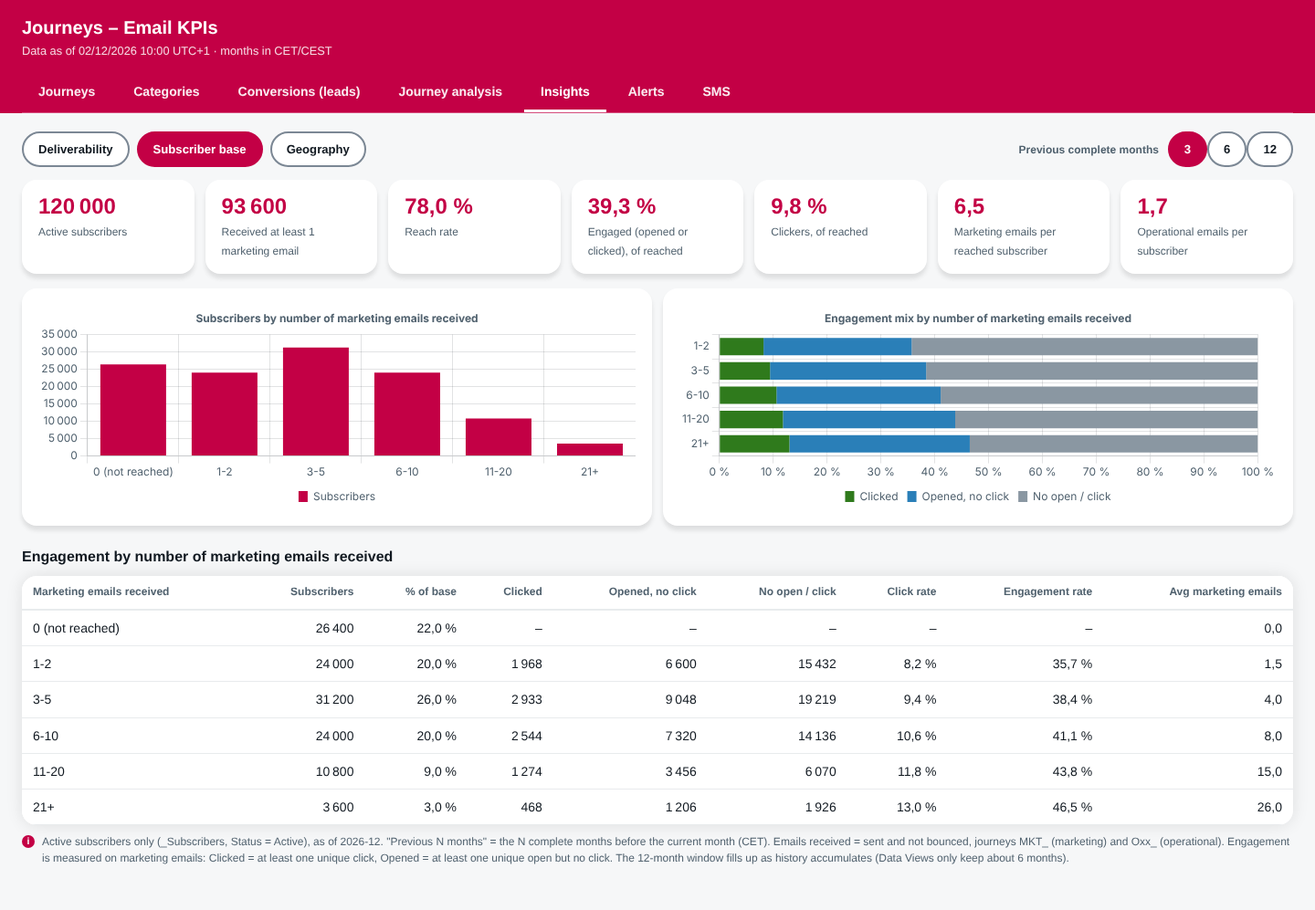
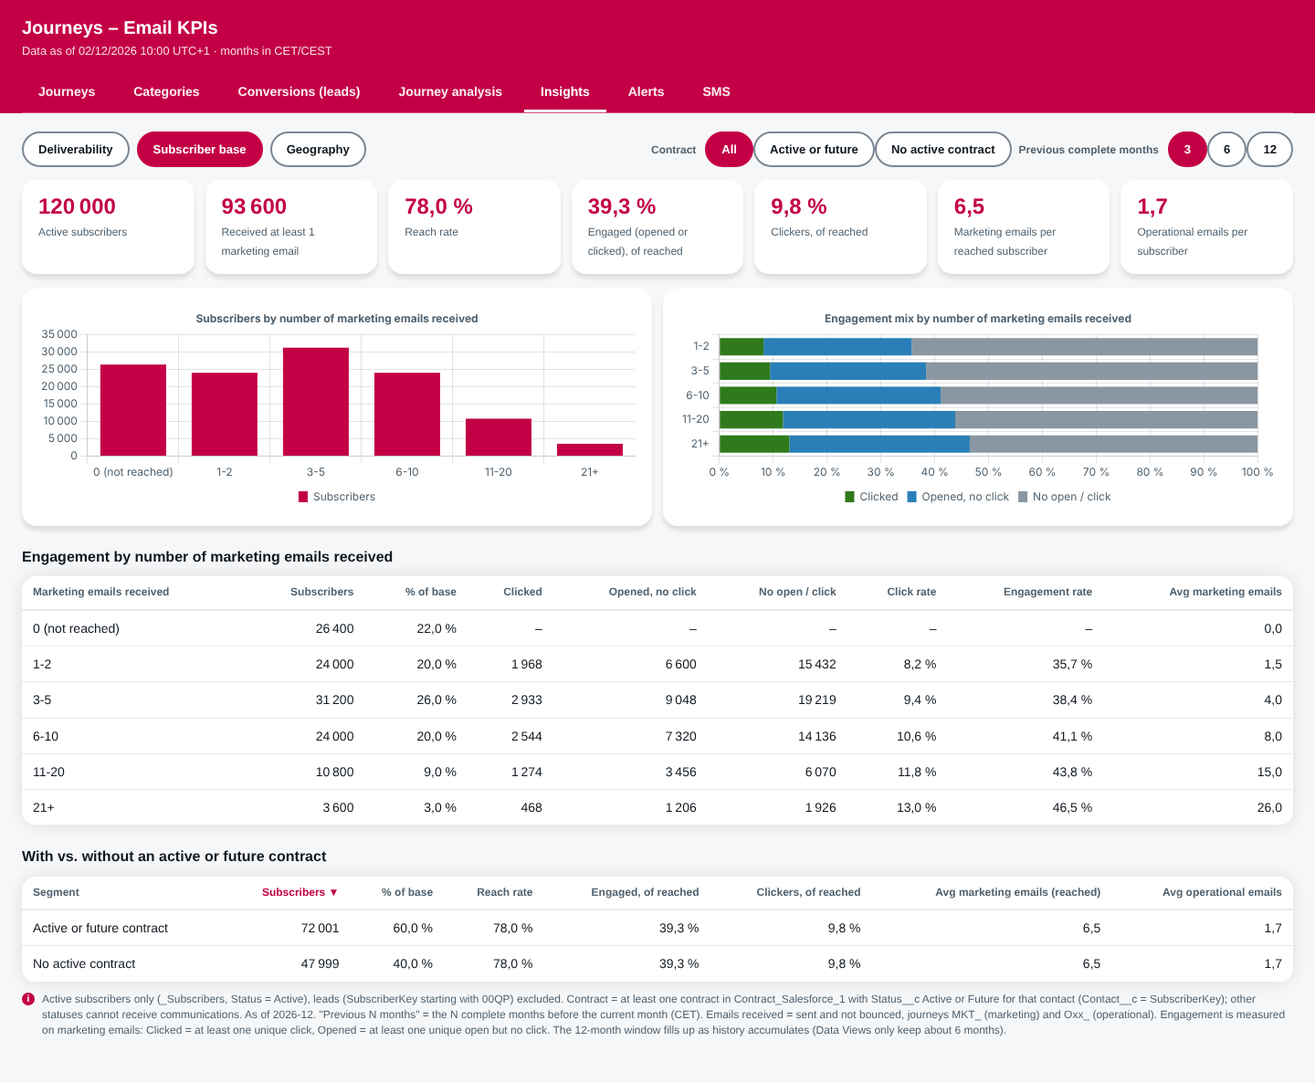
Subscriber base and geography: split by active/future contract, exclude leads (00QP)
Claude-Session: https://claude.ai/code/session_01WtzjzeTDomDiWbenzCQNQG

diff --git a/cloudpage_dashboard.html b/cloudpage_dashboard.html
@@ -310,6 +310,8 @@ a.jl:focus-visible{outline:2px solid var(--focus);outline-offset:2px;border-radi
       <button type="button" class="chip" data-sub="aud" aria-pressed="false">Subscriber base</button>
       <button type="button" class="chip" data-sub="geo" aria-pressed="false">Geography</button>
       <span class="grow"></span>
+      <span id="segBar" role="group" aria-label="Contract segment" hidden><span class="lbl">Contract</span>
+        <button type="button" class="chip" data-seg="all" aria-pressed="true">All</button><button type="button" class="chip" data-seg="yes" aria-pressed="false">Active or future</button><button type="button" class="chip" data-seg="no" aria-pressed="false">No active contract</button></span>
       <span id="winBar" role="group" aria-label="Look-back window" hidden><span class="lbl">Previous complete months</span>
         <button type="button" class="chip" data-win="3" aria-pressed="true">3</button><button type="button" class="chip" data-win="6" aria-pressed="false">6</button><button type="button" class="chip" data-win="12" aria-pressed="false">12</button></span>
     </div>
@@ -323,6 +325,8 @@ a.jl:focus-visible{outline:2px solid var(--focus);outline-offset:2px;border-radi
       <div class="charts"><div class="card"><canvas id="c4"></canvas></div><div class="card"><canvas id="c5"></canvas></div></div>
       <div class="h2">Engagement by number of marketing emails received</div>
       <div class="wrap"><table id="tAud"></table></div>
+      <div id="segBlock" hidden><div class="h2">With vs. without an active or future contract</div>
+      <div class="wrap"><table id="tSeg"></table></div></div>
       <div class="note" id="audNote"></div>
     </div>
     <div id="ins-geo" hidden>
@@ -366,7 +370,7 @@ const ALERT_MIN_DAYS = CFG.alertMinDays ?? 3;    /* do not alert before this man
 const DARK = () => window.matchMedia && matchMedia('(prefers-color-scheme: dark)').matches;
 const PAL_L = ['#c30045','#101820','#2a7fb8','#4b9b30','#ad0cdf'], PAL_D = ['#ff7da3','#eef0f2','#6cb8ee','#7fd36a','#d28bff'];
 const DASHES = [[],[7,4],[2,3],[10,3,2,3]], PTS = ['circle','rect','triangle','rectRot'];   /* series differ by shape and line style, not only by colour */
-const S = {tab:'journeys', fam:'ALL', type:'', prod:'', from:'', to:'', gran:'total', grp:'journey', view:'cat', q:'', j:'', alert:'ongoing', compact:false, sub:'deliv', win:'3', gl:'prov'};
+const S = {tab:'journeys', fam:'ALL', type:'', prod:'', from:'', to:'', gran:'total', grp:'journey', view:'cat', q:'', j:'', alert:'ongoing', compact:false, sub:'deliv', win:'3', gl:'prov', seg:'all'};
 let DEF = {}, JSET = new Set(), FOCUS = null;
 const SORT = {};   /* sort state per table id: {k,d} */
 const EXP = new Set();   /* expanded journey rows (email activity detail) */
@@ -810,10 +814,11 @@ function viewInsDeliv(){
 
 /* ---------- Insights : sous-vues ---------- */
 function viewIns(){
-  $('ins-deliv').hidden = S.sub!=='deliv'; $('ins-aud').hidden = S.sub!=='aud'; $('ins-geo').hidden = S.sub!=='geo'; $('winBar').hidden = S.sub!=='aud';   /* the geography is not tied to a look-back window */
+  $('ins-deliv').hidden = S.sub!=='deliv'; $('ins-aud').hidden = S.sub!=='aud'; $('ins-geo').hidden = S.sub!=='geo'; $('winBar').hidden = S.sub!=='aud'; $('segBar').hidden = S.sub==='deliv';   /* the geography is not tied to a look-back window */
   document.querySelectorAll('[data-sub]').forEach(b=>b.setAttribute('aria-pressed', b.dataset.sub===S.sub));
   document.querySelectorAll('[data-win]').forEach(b=>b.setAttribute('aria-pressed', b.dataset.win===S.win));
   document.querySelectorAll('[data-gl]').forEach(b=>b.setAttribute('aria-pressed', b.dataset.gl===S.gl));
+  document.querySelectorAll('[data-seg]').forEach(b=>b.setAttribute('aria-pressed', b.dataset.seg===S.seg));
   if (S.sub==='deliv') return viewInsDeliv();
   const msg = $(S.sub==='aud' ? 'audMsg' : 'geoMsg');
   if (D.audErr){
@@ -845,13 +850,15 @@ function loadAudience(){
 /* ---------- Insights : base abonnés ---------- */
 const BUCKETS = ['0','1-2','3-5','6-10','11-20','21+'];
 function viewAud(){
-  const msg = $('audMsg'), rows = D.aud.dist.filter(r=>r.Win===S.win);
+  const msg = $('audMsg'), allRows = D.aud.dist.filter(r=>r.Win===S.win), hasC = allRows.some(r=>r.Contract!==undefined), rows = hasC && S.seg!=='all' ? allRows.filter(r=>r.Contract===(S.seg==='yes'?'Yes':'No')) : allRows;
+  $('segBar').hidden = !hasC; $('segBlock').hidden = true;
   charts.forEach(c=>c.destroy()); charts = [];
   if (!rows.length){
     msg.hidden = false; msg.textContent = 'No subscriber snapshot for the previous '+S.win+' months yet (DASH_Audience_Dist).';
     cards('audCards',[]); $('tAud').innerHTML = ''; $('audNote').textContent = ''; return;
   }
   const months = Math.max(...rows.map(r=>r.Months||0));
+  const segTxt = !hasC||S.seg==='all' ? '' : S.seg==='yes' ? ' with an active or future contract' : ' without an active contract';
   msg.hidden = months >= +S.win;
   if (!msg.hidden) msg.textContent = 'Only '+months+' of the previous '+S.win+' months of history are available yet (history starts '+mStr(mIdx(D.aud.asof)-months)+'): the figures cover those months only.';
   const by = {}; let pop=0, rec=0, ops=0, reached=0, clickers=0, openers=0;
@@ -863,7 +870,7 @@ function viewAud(){
     if (r.Seg!=='NotReached') reached += r.Subscribers;
   }
   const engaged = clickers + openers;
-  cards('audCards', [[n(pop),'Active subscribers'],[n(reached),'Received at least 1 marketing email'],[pct(reached,pop),'Reach rate'],
+  cards('audCards', [[n(pop),'Active subscribers'+segTxt],[n(reached),'Received at least 1 marketing email'],[pct(reached,pop),'Reach rate'],
     [pct(engaged,reached),'Engaged (opened or clicked), of reached'],[pct(clickers,reached),'Clickers, of reached'],
     [reached?fx1(rec/reached):'–','Marketing emails per reached subscriber'],[pop?fx1(ops/pop):'–','Operational emails per subscriber']]);
   const list = BUCKETS.map(b=>by[b]);
@@ -886,7 +893,19 @@ function viewAud(){
     {k:'Avg',l:'Avg marketing emails',v:a=>a.Subs?a.Rec/a.Subs:-1,f:a=>a.Subs?fx1(a.Rec/a.Subs):'–'}
   ];
   renderTable('tAud', keyCols, cols, list, null, {cmp:(a,b)=>BUCKETS.indexOf(a.b)-BUCKETS.indexOf(b.b)});
-  $('audNote').textContent = 'Active subscribers only (_Subscribers, Status = Active), as of '+D.aud.asof+'. "Previous N months" = the N complete months before the current month (CET). Emails received = sent and not bounced, journeys MKT_ (marketing) and Oxx_ (operational). Engagement is measured on marketing emails: Clicked = at least one unique click, Opened = at least one unique open but no click. The 12-month window fills up as history accumulates (Data Views only keep about 6 months).';
+  if (hasC){
+    const sg = {Yes:{k:'Yes',name:'Active or future contract',Subs:0,Reached:0,Click:0,Open:0,Rec:0,Ops:0}, No:{k:'No',name:'No active contract',Subs:0,Reached:0,Click:0,Open:0,Rec:0,Ops:0}}; let tot=0;
+    for (const r of allRows){ const x = sg[r.Contract]; if(!x) continue; x.Subs+=r.Subscribers; tot+=r.Subscribers; x.Rec+=r.ReceivedMkt; x.Ops+=r.ReceivedOps; if(r.Seg!=='NotReached') x.Reached+=r.Subscribers; if(r.Seg==='Clicker') x.Click+=r.Subscribers; if(r.Seg==='Opener') x.Open+=r.Subscribers; }
+    $('segBlock').hidden = false;
+    renderTable('tSeg', [{k:'name',l:'Segment',v:a=>a.name,f:a=>esc(a.name)}], [
+      {k:'Subs',l:'Subscribers',v:a=>a.Subs,f:a=>n(a.Subs)},{k:'Share',l:'% of base',v:a=>a.Subs,f:a=>pct(a.Subs,tot)},
+      {k:'Reach',l:'Reach rate',v:a=>a.Subs?a.Reached/a.Subs:-1,f:a=>pct(a.Reached,a.Subs)},
+      {k:'Eng',l:'Engaged, of reached',v:a=>a.Reached?(a.Click+a.Open)/a.Reached:-1,f:a=>pct(a.Click+a.Open,a.Reached)},
+      {k:'Clk',l:'Clickers, of reached',v:a=>a.Reached?a.Click/a.Reached:-1,f:a=>pct(a.Click,a.Reached)},
+      {k:'Avg',l:'Avg marketing emails (reached)',v:a=>a.Reached?a.Rec/a.Reached:-1,f:a=>a.Reached?fx1(a.Rec/a.Reached):'–'},
+      {k:'Ops',l:'Avg operational emails',v:a=>a.Subs?a.Ops/a.Subs:-1,f:a=>a.Subs?fx1(a.Ops/a.Subs):'–'}], [sg.Yes,sg.No], null, {defK:'Subs'});
+  }
+  $('audNote').textContent = 'Active subscribers only (_Subscribers, Status = Active), leads (SubscriberKey starting with 00QP) excluded. Contract = at least one contract in Contract_Salesforce_1 with Status__c Active or Future for that contact (Contact__c = SubscriberKey); other statuses cannot receive communications.'+(hasC?'':' [Contract split unavailable: recreate DASH_Audience_Dist with the Contract column and rerun query 17.]')+' As of '+D.aud.asof+'. "Previous N months" = the N complete months before the current month (CET). Emails received = sent and not bounced, journeys MKT_ (marketing) and Oxx_ (operational). Engagement is measured on marketing emails: Clicked = at least one unique click, Opened = at least one unique open but no click. The 12-month window fills up as history accumulates (Data Views only keep about 6 months).';
 }
 
 /* ---------- Insights : géographie ---------- */
@@ -898,17 +917,20 @@ function viewGeo(){
   const box = $('mapBox'), msg = $('geoMsg'), tip = $('mapTip');
   charts.forEach(c=>c.destroy()); charts = [];
   if (!GEO){ msg.hidden = false; msg.textContent = 'Map data is not embedded in this page (run tools/inject_geo.py).'; return; }
-  const rows = D.aud.geo;
+  const rows = D.aud.geo, hasG = rows.length && rows.every(r=>r.WithContract!==undefined && r.WithContract!==null);
+  $('segBar').hidden = !hasG; const sg = hasG ? S.seg : 'all';
+  const cnt = r => sg==='yes' ? (r.WithContract||0) : sg==='no' ? r.Contacts-(r.WithContract||0) : r.Contacts;
   msg.hidden = true;
   if (!rows.length){ msg.hidden = false; msg.textContent = 'No contact geography yet (DASH_Contact_Geo).'; box.innerHTML = ''; $('tGeo').innerHTML = ''; cards('geoCards',[]); $('mapLegend').textContent=''; return; }
   const pcm = new Map(), pvm = new Map(); let total = 0, na = 0, asof = '';
-  const add = (m, key, c, extra) => { let a = m.get(key); if (!a){ a = Object.assign({key,Contacts:0}, extra||{}); m.set(key,a); } a.Contacts += c; };
+  const add = (m, key, c, wc, extra) => { let a = m.get(key); if (!a){ a = Object.assign({key,Contacts:0,All:0,WC:0}, extra||{}); m.set(key,a); } a.Contacts += c; a.All += wc[0]; a.WC += wc[1]; };
   for (const r of rows){
-    total += r.Contacts; if (r.AsOf) asof = r.AsOf; const g = GEO.postal[r.PostalCode];
-    if (r.PostalCode==='N/A' || !g){ na += r.Contacts; continue; }
-    add(pcm, r.PostalCode, r.Contacts, {name:g[3], prov:g[2], x:g[0], y:g[1]}); add(pvm, g[2], r.Contacts);
+    const c = cnt(r), wc = [r.Contacts, r.WithContract||0]; total += c; if (r.AsOf) asof = r.AsOf; const g = GEO.postal[r.PostalCode];
+    if (r.PostalCode==='N/A' || !g){ na += c; continue; }
+    add(pcm, r.PostalCode, c, wc, {name:g[3], prov:g[2], x:g[0], y:g[1]}); add(pvm, g[2], c, wc);
   }
   const provName = id => { const p = GEO.provinces.find(x=>x.id===id); return p ? p.en : id; };
+  const segTxt = sg==='yes' ? ' with an active or future contract' : sg==='no' ? ' without an active contract' : '';
   const known = total - na, ents = S.gl==='prov' ? pvm : pcm;
   const vals = [...ents.values()].map(e=>e.Contacts), lo = Math.min(...vals), hi = Math.max(...vals);
   let svg = '<svg viewBox="'+GEO.viewBox.join(' ')+'" role="img" aria-label="Map of Belgium: number of contacts by '+(S.gl==='prov'?'province':'postal code')+'. The same figures are in the table next to the map.">';
@@ -921,7 +943,7 @@ function viewGeo(){
   $('mapLegend').innerHTML = S.gl==='postal' ? '<span>Bubble area = number of contacts</span>'
     : '<span>'+n(lo)+'</span><i style="background:linear-gradient(90deg,'+ramp(0)+','+ramp(1)+')"></i><span>'+n(hi)+' contacts</span>';
   const share = e => e.Contacts/total < 0.001 ? '< 0,1 %' : pct(e.Contacts,total);
-  const info = (title,e) => '<b>'+esc(title)+'</b>Contacts: '+n(e.Contacts)+' ('+share(e)+' of all contacts)';
+  const info = (title,e) => '<b>'+esc(title)+'</b>Contacts'+segTxt+': '+n(e.Contacts)+' ('+share(e)+(sg==='all'?' of all contacts':' of the segment')+')'+(hasG?'<br>With contract: '+n(e.WC||0)+' of '+n(e.All||0):'');
   const show = ev => {
     const t = ev.target.closest && ev.target.closest('[data-k]'); if (!t){ tip.hidden = true; return; }
     const [kind,key] = t.dataset.k.split(':'), e = kind==='v' ? pvm.get(key) : pcm.get(key);
@@ -930,20 +952,21 @@ function viewGeo(){
   };
   box.onmousemove = show; box.onmouseleave = ()=>{ tip.hidden = true; };
   const top = [...pvm.values()].sort((a,b)=>b.Contacts-a.Contacts)[0];
-  cards('geoCards', [[n(total),'Contacts'],[pct(known,total),'With a Belgian postal code'],[n(pcm.size),'Postal codes covered'],[n(na),'Without a usable postal code'],
+  cards('geoCards', [[n(total),'Contacts'+segTxt],[pct(known,total),'With a Belgian postal code'],[n(pcm.size),'Postal codes covered'],[n(na),'Without a usable postal code'],
     [top ? pct(top.Contacts,total) : '–', top ? 'Largest province: '+provName(top.key) : 'Largest province']]);
-  const shareCol = {k:'Share',l:'% of contacts',v:a=>a.Contacts,f:a=>a.Contacts && a.Contacts/total < 0.001 ? '< 0,1 %' : pct(a.Contacts,total)};
+  const shareCol = {k:'Share',l:'% of contacts'+(sg==='all'?'':' in segment'),v:a=>a.Contacts,f:a=>a.Contacts && a.Contacts/total < 0.001 ? '< 0,1 %' : pct(a.Contacts,total)};
+  const wcCols = hasG ? [{k:'WC',l:'With contract',v:a=>a.WC||0,f:a=>n(a.WC||0)},{k:'PWC',l:'% with contract',v:a=>a.All?(a.WC||0)/a.All:-1,f:a=>a.All?pct(a.WC||0,a.All):'–'}] : [];
   if (S.gl==='prov'){
     $('geoTblTitle').textContent = 'Provinces';
-    const list = GEO.provinces.map(p=>({name:p.en,key:p.id,Contacts:(pvm.get(p.id)||{}).Contacts||0}));
-    renderTable('tGeo', [{k:'name',l:'Province',v:a=>a.name.toLowerCase(),f:a=>esc(a.name)}], [{k:'Contacts',l:'Contacts',v:a=>a.Contacts,f:a=>n(a.Contacts)}, shareCol], list, null, {defK:'Contacts'});
+    const list = GEO.provinces.map(p=>{ const e = pvm.get(p.id)||{}; return {name:p.en,key:p.id,Contacts:e.Contacts||0,All:e.All||0,WC:e.WC||0}; });
+    renderTable('tGeo', [{k:'name',l:'Province',v:a=>a.name.toLowerCase(),f:a=>esc(a.name)}], [{k:'Contacts',l:'Contacts'+(sg==='all'?'':' (segment)'),v:a=>a.Contacts,f:a=>n(a.Contacts)}, shareCol].concat(wcCols), list, null, {defK:'Contacts'});
   } else {
     $('geoTblTitle').textContent = 'Top 25 postal codes';
     const list = [...pcm.values()].sort((a,b)=>b.Contacts-a.Contacts).slice(0,25);
     renderTable('tGeo', [{k:'pc',l:'Postal code',v:a=>a.key,f:a=>esc(a.key)},{k:'place',l:'Place',v:a=>a.name.toLowerCase(),f:a=>esc(a.name)},{k:'prov',l:'Province',v:a=>provName(a.prov),f:a=>esc(provName(a.prov))}],
-      [{k:'Contacts',l:'Contacts',v:a=>a.Contacts,f:a=>n(a.Contacts)}, shareCol], list, null, {defK:'Contacts'});
+      [{k:'Contacts',l:'Contacts'+(sg==='all'?'':' (segment)'),v:a=>a.Contacts,f:a=>n(a.Contacts)}, shareCol].concat(wcCols), list, null, {defK:'Contacts'});
   }
-  $('geoNote').textContent = 'Indication only: number of contacts per postal code, from MailingPostalCode in Contact_Salesforce_1 (4-digit Belgian codes). It is not linked to email sends or engagement. Snapshot of '+(asof||'–')+'. '+(GEO.attribution||'');
+  $('geoNote').textContent = 'Indication only: number of contacts per postal code, from MailingPostalCode in Contact_Salesforce_1 (4-digit Belgian codes); leads (Id starting with 00QP) are excluded. With contract = Status__c Active or Future in Contract_Salesforce_1.'+(hasG?'':' [Contract split unavailable: add the WithContract column to DASH_Contact_Geo and rerun query 18.]')+' It is not linked to email sends or engagement. Snapshot of '+(asof||'–')+'. '+(GEO.attribution||'');
 }
 
 /* ---------- SMS ---------- */
@@ -985,7 +1008,7 @@ const HSEL = {fam:'fFam',type:'fType',prod:'fProd',from:'fFrom',to:'fTo',gran:'f
 function saveHash(){
   try{
     const p = new URLSearchParams();
-    for (const k of ['tab','fam','type','prod','from','to','gran','grp','view','q','j','alert','sub','win','gl']) if (S[k] && S[k]!==DEF[k]) p.set(k,S[k]);
+    for (const k of ['tab','fam','type','prod','from','to','gran','grp','view','q','j','alert','sub','win','gl','seg']) if (S[k] && S[k]!==DEF[k]) p.set(k,S[k]);
     if (S.compact) p.set('compact','1');
     const h = p.toString(); history.replaceState(null,'',location.pathname+location.search+(h?'#'+h:''));
   }catch(e){}
@@ -995,7 +1018,7 @@ function loadHash(){
   if (TABS[p.get('tab')]) S.tab = p.get('tab');
   for (const k in HSEL){ const v=p.get(k), el=$(HSEL[k]); if (v!==null && [...el.options].some(o=>o.value===v)){ S[k]=v; el.value=v; } }
   if (p.get('q')){ S.q=p.get('q'); $('fQ').value=S.q; }
-  for (const [k,vals] of [['sub',['deliv','aud','geo']],['win',['3','6','12']],['gl',['prov','postal']]]) if (vals.includes(p.get(k))) S[k]=p.get(k);
+  for (const [k,vals] of [['sub',['deliv','aud','geo']],['win',['3','6','12']],['gl',['prov','postal']],['seg',['all','yes','no']]]) if (vals.includes(p.get(k))) S[k]=p.get(k);
   S.compact = p.get('compact')==='1';
 }
 function selectTab(t, focus){
@@ -1062,7 +1085,7 @@ function setup(){
   const js = [...last.keys()].sort((a,b)=>(last.get(b)>last.get(a)?1:last.get(b)<last.get(a)?-1:0)||(covKey(b)>covKey(a)?1:covKey(b)<covKey(a)?-1:0)||(a<b?-1:1));
   $('fJ').innerHTML = js.map(j=>{const p=parse(j);return `<option value="${esc(j)}">${esc(p.campaign+' · '+(p.covered||'–')+' · '+p.fam+' · '+p.type+' · '+p.product)}</option>`;}).join('');
   S.j = js[0] || ''; JSET = new Set(js);
-  DEF = {tab:'journeys',fam:'ALL',type:'',prod:'',from:S.from,to:S.to,gran:'total',grp:'journey',view:'cat',q:'',j:S.j,alert:'ongoing',sub:'deliv',win:'3',gl:'prov'};
+  DEF = {tab:'journeys',fam:'ALL',type:'',prod:'',from:S.from,to:S.to,gran:'total',grp:'journey',view:'cat',q:'',j:S.j,alert:'ongoing',sub:'deliv',win:'3',gl:'prov',seg:'all'};
   const on = (id,fn)=>{ $(id).onchange = e=>{fn(e.target.value); SORT.tbl=null; render();}; };
   on('fType',v=>S.type=v); on('fProd',v=>S.prod=v); on('fView',v=>S.view=v); on('fFam',v=>S.fam=v);
   on('fFrom',v=>S.from=v); on('fTo',v=>S.to=v); on('fGran',v=>S.gran=v); on('fGrp',v=>S.grp=v);
@@ -1073,6 +1096,7 @@ function setup(){
   document.querySelectorAll('[data-sub]').forEach(b=>b.onclick=()=>{ S.sub=b.dataset.sub; render(); });
   document.querySelectorAll('[data-win]').forEach(b=>b.onclick=()=>{ S.win=b.dataset.win; render(); });
   document.querySelectorAll('[data-gl]').forEach(b=>b.onclick=()=>{ S.gl=b.dataset.gl; render(); });
+  document.querySelectorAll('[data-seg]').forEach(b=>b.onclick=()=>{ S.seg=b.dataset.seg; render(); });
   $('bReset').onclick = ()=>{ for (const k of ['fam','type','prod','gran','from','to']){ S[k]=DEF[k]; $(HSEL[k]).value=DEF[k]; } S.q=''; $('fQ').value=''; SORT.tbl=null; render(); };
   $('fQ').oninput = e=>{S.q=e.target.value;render();};
   document.querySelectorAll('.tab').forEach(b=>b.onclick=()=>selectTab(b.dataset.tab));

diff --git a/cloudpage_api.html b/cloudpage_api.html
@@ -201,10 +201,10 @@ try {
     if (asof.split("-").length !== 2) { Write(Stringify({ error: "missing or invalid parameter asof (yyyy-mm) for part=audience" })); }
     else {
       var aflt = { Property: "AsOf", SimpleOperator: "equals", Value: asof };
-      var dist = optional(cfgv("audience_dist_de", "DASH_Audience_Dist"), ["AsOf","Win","RecBucket","Seg","Subscribers","ReceivedMkt","ReceivedOps","OpensMkt","ClicksMkt","Months"],
+      var dist = optional(cfgv("audience_dist_de", "DASH_Audience_Dist"), ["AsOf","Win","Contract","RecBucket","Seg","Subscribers","ReceivedMkt","ReceivedOps","OpensMkt","ClicksMkt","Months"],
                           ["Subscribers","ReceivedMkt","ReceivedOps","OpensMkt","ClicksMkt","Months"], "DASH_Audience_Dist", aflt);
       /* geographie des contacts : indication seule (nombre de contacts par code postal), sans lien avec les envois ; la DE est ecrasee chaque jour */
-      var geo = optional(cfgv("contact_geo_de", "DASH_Contact_Geo"), ["PostalCode","Contacts","AsOf"], ["Contacts"], "DASH_Contact_Geo");
+      var geo = optional(cfgv("contact_geo_de", "DASH_Contact_Geo"), ["PostalCode","Contacts","WithContract","AsOf"], ["Contacts","WithContract"], "DASH_Contact_Geo");
       Write(Stringify({ part: "audience", asof: asof, dist: dist, geo: geo, warnings: warnings }));
     }
   } else if (part === "sms") {

diff --git a/sql/NOTES.md b/sql/NOTES.md
@@ -85,8 +85,8 @@ Basées sur votre requête de reporting (quarterly) et adaptées au rythme mensu
 
 ## Base abonnés et géographie (15 à 18)
 - **15 / 16** : `DASH_Sub_Monthly` (clé : SubscriberKey + Month). Par abonné et par mois (CET) : `RecMkt` / `RecOps` = e-mails reçus (envoyés et non bounced) des journeys MKT_ / Oxx_, `OpenMkt` / `ClickMkt` = ouvertures / clics uniques sur les e-mails marketing. Mode Update : seuls le mois courant et le précédent sont recalculés, l'historique n'est jamais écrasé.
-- **17** : `DASH_Audience_Dist` (clé : AsOf, Win, RecBucket, Seg). Abonnés actifs (`_Subscribers.Status = 'Active'`) répartis par fenêtre (3, 6, 12 mois complets avant le mois courant), par tranche d'e-mails marketing reçus (0, 1-2, 3-5, 6-10, 11-20, 21+) et par segment : `Clicker` (au moins 1 clic), `Opener` (au moins 1 ouverture, pas de clic), `NoEngagement` (reçu, ni ouvert ni cliqué), `NotReached` (aucun e-mail marketing reçu). `Months` = nombre de mois d historique réellement disponibles dans la fenêtre. `AsOf` = mois courant : un instantané par mois est conservé.
-- **18** : `DASH_Contact_Geo` (clé : PostalCode), mode **Overwrite**. Compte les contacts de `Contact_Salesforce_1` par code postal (`MailingPostalCode`, préfixes B- et BE- retirés, accepté seulement s il compte exactement 4 chiffres entre 1000 et 9999 ; sinon `N/A`). C est une **simple indication de répartition** : pas de jointure avec `_Subscribers` ni avec les envois, pas de notion d engagement ni de fenêtre de temps. `AsOf` = date du calcul (CET). Le fichier garde le nom `18_audience_geo.sql`.
+- **17** : `DASH_Audience_Dist` (clé : AsOf, Win, Contract, RecBucket, Seg). Abonnés actifs hors leads (`SubscriberKey NOT LIKE '00QP%'`), avec `Contract` = Yes si `Contract_Salesforce_1` contient une ligne `Contact__c` = SubscriberKey et `Status__c` IN ('Active','Future'), sinon No ; répartis par fenêtre (3, 6, 12 mois complets avant le mois courant), par tranche d'e-mails marketing reçus (0, 1-2, 3-5, 6-10, 11-20, 21+) et par segment : `Clicker` (au moins 1 clic), `Opener` (au moins 1 ouverture, pas de clic), `NoEngagement` (reçu, ni ouvert ni cliqué), `NotReached` (aucun e-mail marketing reçu). `Months` = nombre de mois d historique réellement disponibles dans la fenêtre. `AsOf` = mois courant : un instantané par mois est conservé.
+- **18** : `DASH_Contact_Geo` (clé : PostalCode), mode **Overwrite**. Compte les contacts de `Contact_Salesforce_1` (hors leads `00QP%`) par code postal, avec `WithContract` = nombre de ceux ayant un contrat Active ou Future, (`MailingPostalCode`, préfixes B- et BE- retirés, accepté seulement s il compte exactement 4 chiffres entre 1000 et 9999 ; sinon `N/A`). C est une **simple indication de répartition** : pas de jointure avec `_Subscribers` ni avec les envois, pas de notion d engagement ni de fenêtre de temps. `AsOf` = date du calcul (CET). Le fichier garde le nom `18_audience_geo.sql`.
 - Si 17 dépasse le délai de 30 minutes sur une très grande base, me le dire pour passer à un calcul par lots (la requête 18 est légère : elle ne lit que les contacts).
 
 ## Page d'administration

diff --git a/README.md b/README.md
@@ -12,8 +12,10 @@ Les DE gardent l'historique au-delà des ~6 mois de rétention des Data Views.
 | DASH_Link_Monthly | **JourneyName** Text(200), **Month** Text(7), **RowKey** Text(32) (clé primaire composée dans cet ordre, pour des lectures rapides), EmailName Text(200), LinkName Text(300), LinkContent Text(300), UniqueClicks, TotalClicks (Number) |
 | DASH_Domain_Monthly | **Domain** Text(100), **Month** Text(7), Sends, Bounces, Complaints (Number) |
 | DASH_Sub_Monthly | **SubscriberKey** Text(100), **Month** Text(7), RecMkt, RecOps, OpenMkt, ClickMkt (Number) : par abonné et par mois, journeys MKT_ / Oxx_ (s'accumule, jamais écrasée) |
-| DASH_Audience_Dist | **AsOf** Text(7), **Win** Text(2), **RecBucket** Text(6), **Seg** Text(15), Subscribers, ReceivedMkt, ReceivedOps, OpensMkt, ClicksMkt, Months (Number) |
-| DASH_Contact_Geo | **PostalCode** Text(10), Contacts (Number), AsOf Text(10) : nombre de contacts par code postal (indication seule, sans lien avec les envois) ; écrasée chaque jour |
+| DASH_Audience_Dist | **AsOf** Text(7), **Win** Text(2), **Contract** Text(3) (Yes/No), **RecBucket** Text(6), **Seg** Text(15), Subscribers, ReceivedMkt, ReceivedOps, OpensMkt, ClicksMkt, Months (Number) |
+| DASH_Contact_Geo | **PostalCode** Text(10), Contacts (Number), WithContract (Number : dont contacts avec un contrat Active ou Future), AsOf Text(10) : nombre de contacts par code postal (indication seule, sans lien avec les envois) ; écrasée chaque jour |
+
+> **Leads et contrats** : les leads (SubscriberKey / Id commençant par `00QP`) sont exclus de la base abonnés et de la géographie (pas des KPI journeys ni des conversions). « Avec contrat » = au moins une ligne de `Contract_Salesforce_1` avec `Contact__c` = SubscriberKey et `Status__c` = `Active` ou `Future`. Si vous aviez déjà créé `DASH_Audience_Dist`, **recréez-la** (la clé inclut maintenant `Contract`) et ajoutez `WithContract` à `DASH_Contact_Geo`.
 | DASH_Admin_Log (facultative) | **LogId** Text(40), Ts Text(25), AdminIP Text(50), Action Text(30), Target Text(100), Detail Text(200) : journal des modifications faites depuis la page d'administration |
 | DASH_SMS_Monthly | **JourneyName** Text(200), **Month** Text(7), **AssetName** Text(200), Sent, **Messages**, UniqueRecipients, Delivered, Bounced (Number) |
 | DASH_Config | **ConfigKey** Text(50), Value Text(200) → voir « Configuration (DE DASH_Config) » ci-dessous |
